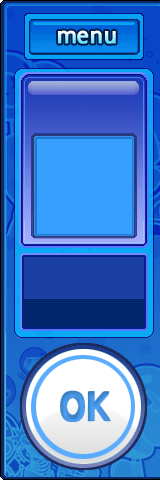
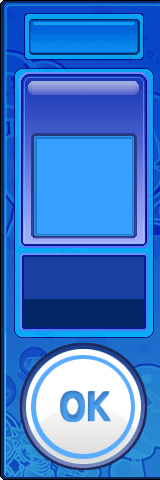
将游戏主界面命名为MainUIScene,制作了登出按钮

Changed region(s): [[0.3438, 0.0312, 0.75, 0.0938]]

diff --git a/Classes/MainUIScene.hpp b/Classes/MainUIScene.hpp
@@ -1,0 +1,68 @@
+#ifndef __MAINUI_SCENE__
+#define __MAINUI_SCENE__
+#include "cocos2d.h"
+#include "SimpleAudioEngine.h"
+USING_NS_CC;
+using namespace CocosDenshion;
+class MainUIScene : public CCLayer
+{
+public:
+    // Here's a difference. Method 'init' in cocos2d-x returns bool, instead of returning 'id' in cocos2d-iphone
+    virtual bool init();
+    // there's no 'id' in cpp, so we recommand to return the exactly class pointer
+    static CCScene* scene();
+    // a selector callback
+    void logout();
+    // implement the "static node()" method manually
+    CREATE_FUNC(MainUIScene);
+	CCSize size;
+	static CCScene *mainUIScene;
+};
+#include "TitleScene.hpp"
+#include "ShareData.hpp"
+CCScene *MainUIScene::mainUIScene;
+CCScene* MainUIScene::scene()
+{
+	// 'scene' is an autorelease object
+	mainUIScene = CCScene::create();
+	// 'layer' is an autorelease object
+	MainUIScene *layer = MainUIScene::create();
+	// add layer as a child to scene
+	mainUIScene->addChild(layer,0);
+	// return the scene
+	return mainUIScene;
+}
+// on "init" you need to initialize your instance
+bool MainUIScene::init()
+{
+	if(!CCLayer::init())
+	{
+		return false;
+	}
+	size = CCDirector::sharedDirector()->getWinSize();
+	CCMenu* pMenu = CCMenu::create();
+	pMenu->setPosition( CCPointZero );
+	this->addChild(pMenu,2);
+	CCSprite *background=CCSprite::create("image/bg.jpg");
+	background->setPosition( ccp(size.width/2, size.height/2) );
+	background->setScaleX(size.width/background->getContentSize().width);
+	background->setScaleY(size.height/background->getContentSize().height);
+	this->addChild(background,0);
+	CCSprite *ui_right=CCSprite::create("image/ui_right.png");
+	ui_right->setScale(size.height/ui_right->getContentSize().height);
+	ui_right->setPosition(ccp(ui_right->boundingBox().size.width/2,size.height/2));
+	this->addChild(ui_right,1);
+	CCLabelTTF *logoutLabel=CCLabelTTF::create("登\t出","fonts/FZKaTong-M19T.ttf",25);
+	logoutLabel->setColor(ccYELLOW);
+	CCMenuItemLabel *logoutItem=CCMenuItemLabel::create(logoutLabel,this,menu_selector(MainUIScene::logout));
+	logoutItem->setPosition(ccp(ui_right->boundingBox().size.width/64*33,size.height/64*59));
+	pMenu->addChild(logoutItem);
+	return true;
+}
+void MainUIScene::logout(){
+	SimpleAudioEngine::sharedEngine()->stopBackgroundMusic();
+	ShareData::userid=-1;
+	CCScene *pScene =TitleScene::scene();
+	CCDirector::sharedDirector()->replaceScene(CCTransitionFlipY::create(0.5f, pScene));
+}
+#endif

diff --git a/Classes/LoginLayer.hpp b/Classes/LoginLayer.hpp
@@ -3,13 +3,7 @@
 typedef unsigned int size_t;
 #include "cocos2d.h"
 #include "SimpleAudioEngine.h"
-#include "GameScene.hpp"
 #include "curl/curl.h"
-#include "stdio.h"
-#include "stdlib.h"
-#include "string.h"
-#include "ShareClass.hpp"
-#include "MessageLayer.hpp"
 USING_NS_CC;
 class LoginLayer : public CCLayer ,public CCTextFieldDelegate
 {
@@ -39,6 +33,9 @@ public:
     void menuCloseCallback(CCObject* pSender);
     void showMessage(const char* st);
 };
+#include "MainUIScene.hpp"
+#include "ShareData.hpp"
+#include "MessageLayer.hpp"
 int LoginLayer::httpAns;
 // onserverField "init" you need to initialize your instance
 bool LoginLayer::init()
@@ -163,7 +160,7 @@ void LoginLayer::checkNameExist(){
 		httpAns=-404;
 	}
 	else
-	    ShareClass::userid=httpAns;
+	    ShareData::userid=httpAns;
     curl_easy_cleanup(curl);
 }
 void LoginLayer::regist(){
@@ -207,9 +204,9 @@ void LoginLayer::login(){
     	showMessage("密码错误");
     }
     else{
-    	strcpy(ShareClass::username,usernameField->getString());
-    	ShareClass::userid=httpAns;
-    	CCScene *pScene = GameScene::scene();
+    	strcpy(ShareData::username,usernameField->getString());
+    	ShareData::userid=httpAns;
+    	CCScene *pScene = MainUIScene::scene();
     	CCDirector::sharedDirector()->replaceScene(CCTransitionFlipY::create(0.5f, pScene));
     }
 }
@@ -218,7 +215,7 @@ void LoginLayer::loginButtonClicked(CCObject* pSender)
 	SimpleAudioEngine::sharedEngine()->playEffect("audio/ef_0.ogg");
 	checkNameExist();
 	if(httpAns!=-404){
-		if(ShareClass::userid==-1)
+		if(ShareData::userid==-1)
 			showMessage("用户名不存在");
 		else
 			login();
@@ -229,7 +226,7 @@ void LoginLayer::registButtonClicked(CCObject* pSender)
 	SimpleAudioEngine::sharedEngine()->playEffect("audio/ef_0.ogg");
 	checkNameExist();
 	if(httpAns!=-404){
-		if(ShareClass::userid!=-1)
+		if(ShareData::userid!=-1)
 			showMessage("该用户名已存在");
 		else{
 			regist();

diff --git a/Classes/TitleScene.hpp b/Classes/TitleScene.hpp
@@ -1,9 +1,7 @@
-#ifndef __TITLE_SCENE_H__
-#define __TITLE_SCENE_H__
-typedef unsigned int size_t;
+#ifndef __TITLE_SCENE__
+#define __TITLE_SCENE__
 #include "cocos2d.h"
 #include "SimpleAudioEngine.h"
-#include "LoginLayer.hpp"
 USING_NS_CC;
 class TitleScene : public CCLayer
 {
@@ -29,6 +27,8 @@ public:
     virtual void registerWithTouchDispatcher();
 
 };
+
+#include "LoginLayer.hpp"
 CCScene *TitleScene::titleScene;
 CCScene* TitleScene::scene()
 {
@@ -52,6 +52,7 @@ bool TitleScene::init()
 		return false;
 	}
 	SimpleAudioEngine::sharedEngine()->preloadBackgroundMusic("audio/bg_0.ogg");
+	SimpleAudioEngine::sharedEngine()->preloadEffect("audio/ef_11.ogg");
 	size = CCDirector::sharedDirector()->getWinSize();
 	bomb=CCSprite::create("image/bomb.png");
 	bomb->setScale(size.height/4/bomb->getContentSize().height);
@@ -66,7 +67,6 @@ bool TitleScene::init()
 	return true;
 }
 void TitleScene::showBackground(){
-	SimpleAudioEngine::sharedEngine()->preloadEffect("audio/ef_11.ogg");
 	SimpleAudioEngine::sharedEngine()->playEffect("audio/ef_11.ogg");
 	SimpleAudioEngine::sharedEngine()->playBackgroundMusic("audio/bg_0.ogg",true);
 	CCSprite *background=CCSprite::create("image/bg.png");

diff --git a/Classes/MessageLayer.hpp b/Classes/MessageLayer.hpp
@@ -1,6 +1,5 @@
 #ifndef __MESSAGE_LAYER__
 #define __MESSAGE_LAYER__
-typedef unsigned int size_t;
 #include "cocos2d.h"
 #include "SimpleAudioEngine.h"
 USING_NS_CC;
@@ -55,5 +54,4 @@ void MessageLayer::registerWithTouchDispatcher()
     CCDirector::sharedDirector()->getTouchDispatcher()->addTargetedDelegate(this, 0, true);
     CCLayer::registerWithTouchDispatcher();
 }
-
-#endif // __MessageLayer_LAYER__
+#endif

diff --git a/Classes/ShareData.hpp b/Classes/ShareData.hpp
@@ -1,0 +1,10 @@
+#ifndef __SHARE_DATA__
+#define __SHARE_DATA__
+class ShareData{
+public :
+	static char username[20];
+	static int userid;
+};
+char ShareData::username[20];
+int ShareData::userid;
+#endif
